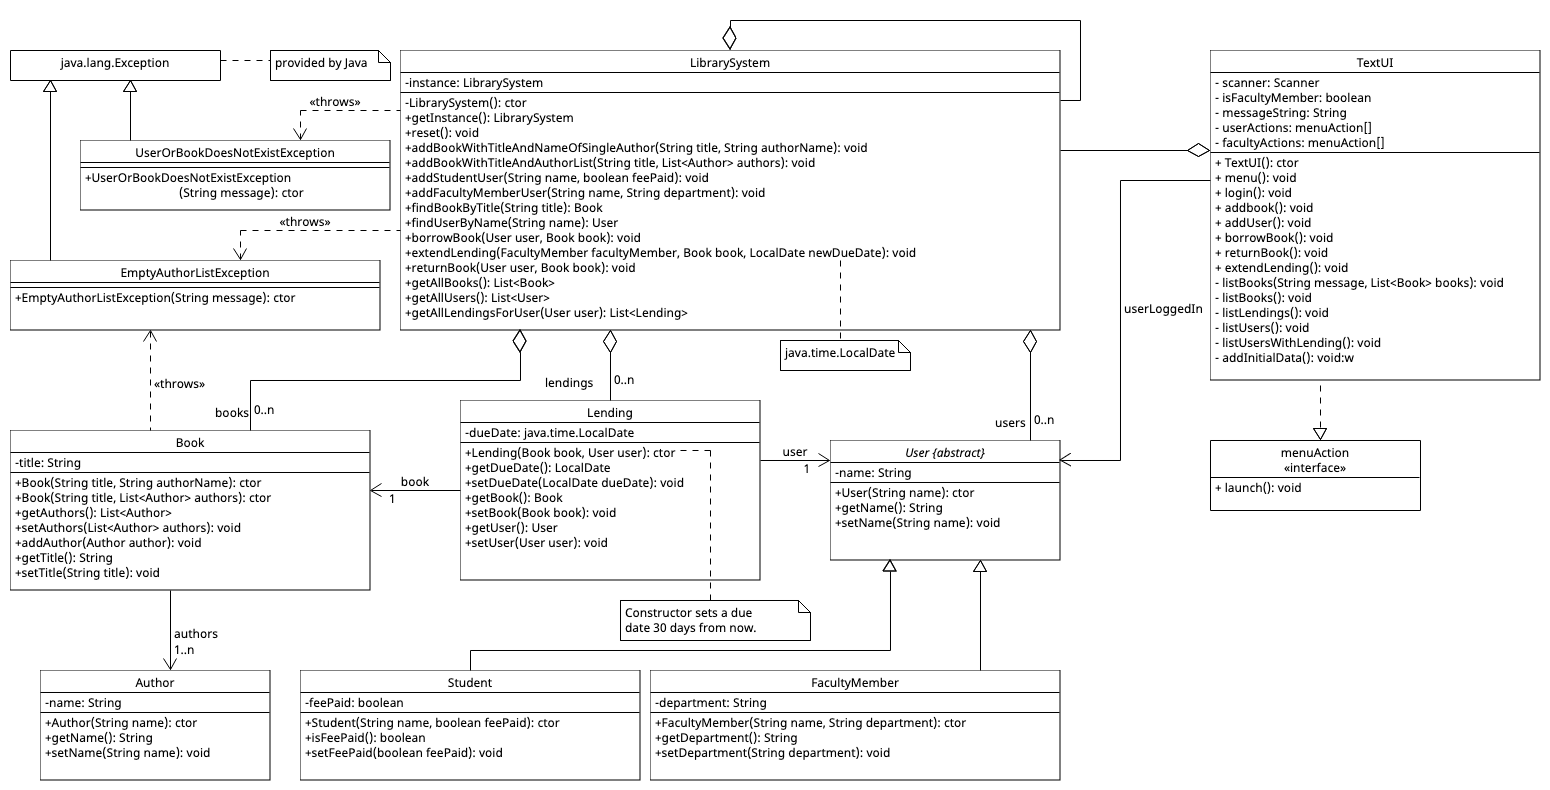
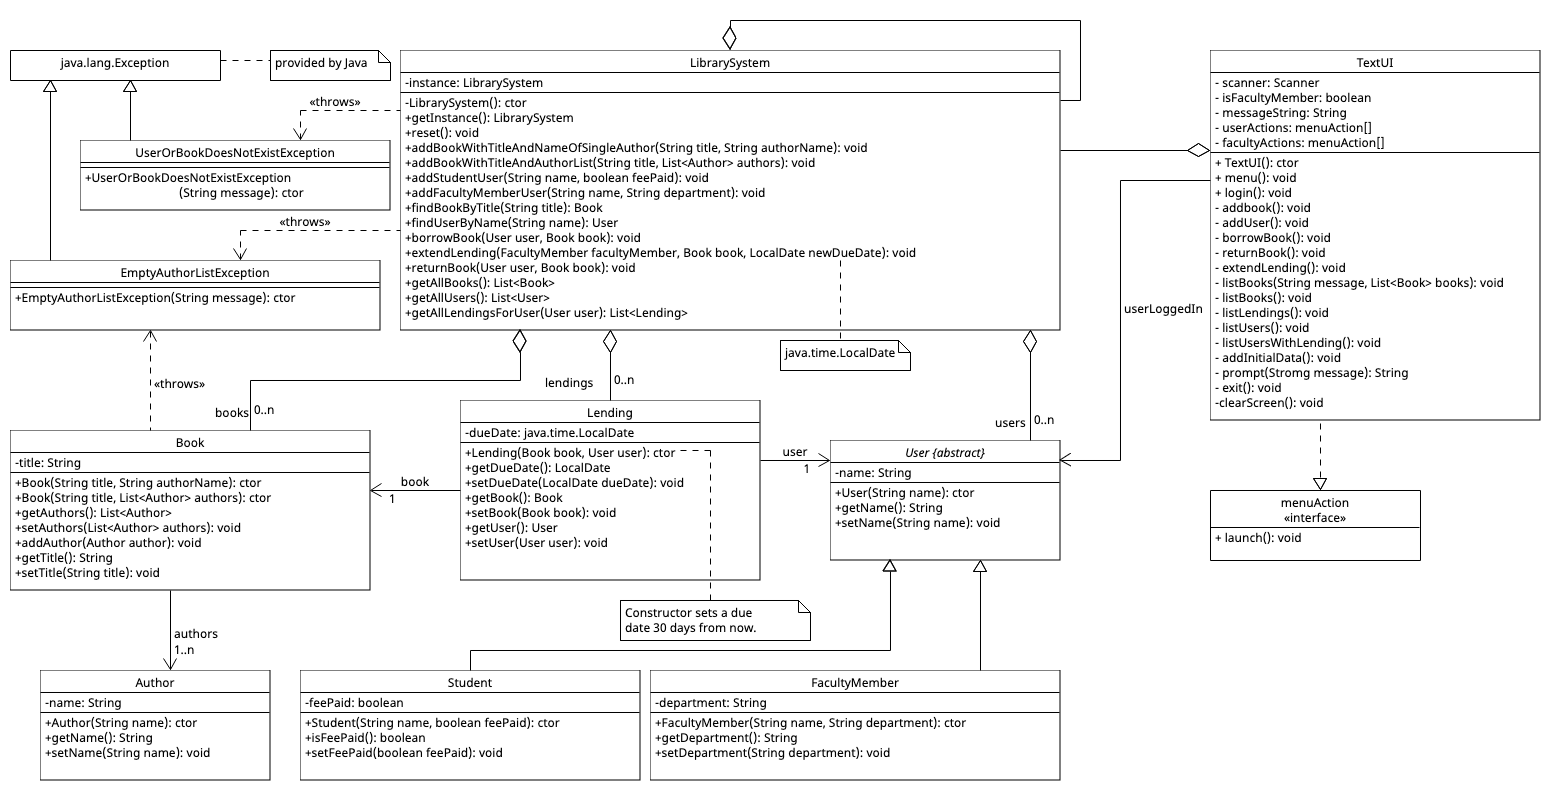
Uml uppfært og laga visibility á aðferðum

Changed region(s): [[0.7742, 0.4557, 0.929, 0.6987], [0.7742, 0.243, 0.8671, 0.3646], [0.991, 0.4861, 1.0, 0.5165]]

diff --git a/src/main/java/is/hi/hbv202g/project/TextUI.java b/src/main/java/is/hi/hbv202g/project/TextUI.java
@@ -6,6 +6,9 @@ import java.util.List;
 import java.util.Scanner;
 import java.util.stream.Collectors;
 
+/**
+ * TextUI class for the library system.
+ */
 public class TextUI {
   private LibrarySystem librarySystem;
   private Scanner scanner;
@@ -13,6 +16,11 @@ public class TextUI {
   private boolean isFacultyMember = false;
   private String messageString = null;
 
+  /**
+   * The main method for the text user interface.
+   *
+   * Provides a simple text user interface for the library system.
+   */
   public TextUI() {
     if (this.librarySystem == null) {
       this.librarySystem = LibrarySystem.getInstance();
@@ -25,7 +33,7 @@ public class TextUI {
    * Interface to provide the adapter pattern for the menu actions.
    */
   interface menuAction {
-    void launch();
+    public void launch();
   }
 
   private menuAction[] userActions = new menuAction[] {
@@ -148,7 +156,7 @@ public class TextUI {
   /**
    * Helper method to add a book to the library system.
    */
-  public void addBook() {
+  private void addBook() {
     clearScreen();
     String title = prompt("Enter book title, must be atleast one letter: ");
     if (title.trim().length() == 0) {
@@ -178,7 +186,7 @@ public class TextUI {
   /**
    * Helper method to add a user to the library system.
    */
-  public void addUser() {
+  private void addUser() {
     if (!isFacultyMember)
       return;
 
@@ -213,7 +221,7 @@ public class TextUI {
   /**
    * Helper method to borrow a book from the library.
    */
-  public void borrowBook() {
+  private void borrowBook() {
     clearScreen();
     List<Book> books = librarySystem.getAllBooks();
     listBooks("Available books: ", books);
@@ -243,7 +251,7 @@ public class TextUI {
   /**
    * Helper method to return a book to the library system.
    */
-  public void returnBook() {
+  private void returnBook() {
     clearScreen();
     List<Book> books = librarySystem.getAllLendingsForUser(userLoggedIn).stream().map(Lending::getBook).toList();
     listBooks("Books you have borrowed: ", books);
@@ -275,7 +283,7 @@ public class TextUI {
   /**
    * Helper method to extend lending of a book by a faculty member.
    */
-  public void extendLending() {
+  private void extendLending() {
     if (!isFacultyMember) {
       messageString = "You need to be a faculty member to extend a lending.";
       return;
@@ -458,8 +466,6 @@ public class TextUI {
   }
 
   /**
-   * TODO: needs UML
-   *
    * Helper utility method to prompt the user for input.
    *
    * @param message The message to display to the user.
@@ -471,8 +477,6 @@ public class TextUI {
   }
 
   /**
-   * TODO: needs UML
-   *
    * Helper method to exit the program.
    */
   private void exit() {

diff --git a/src/main/java/is/hi/hbv202g/project/Main.java b/src/main/java/is/hi/hbv202g/project/Main.java
@@ -1,5 +1,8 @@
 package is.hi.hbv202g.project;
 
+/**
+ * Main class to run the library system.
+ */
 public class Main {
   /**
    * Main method to run the library system.
